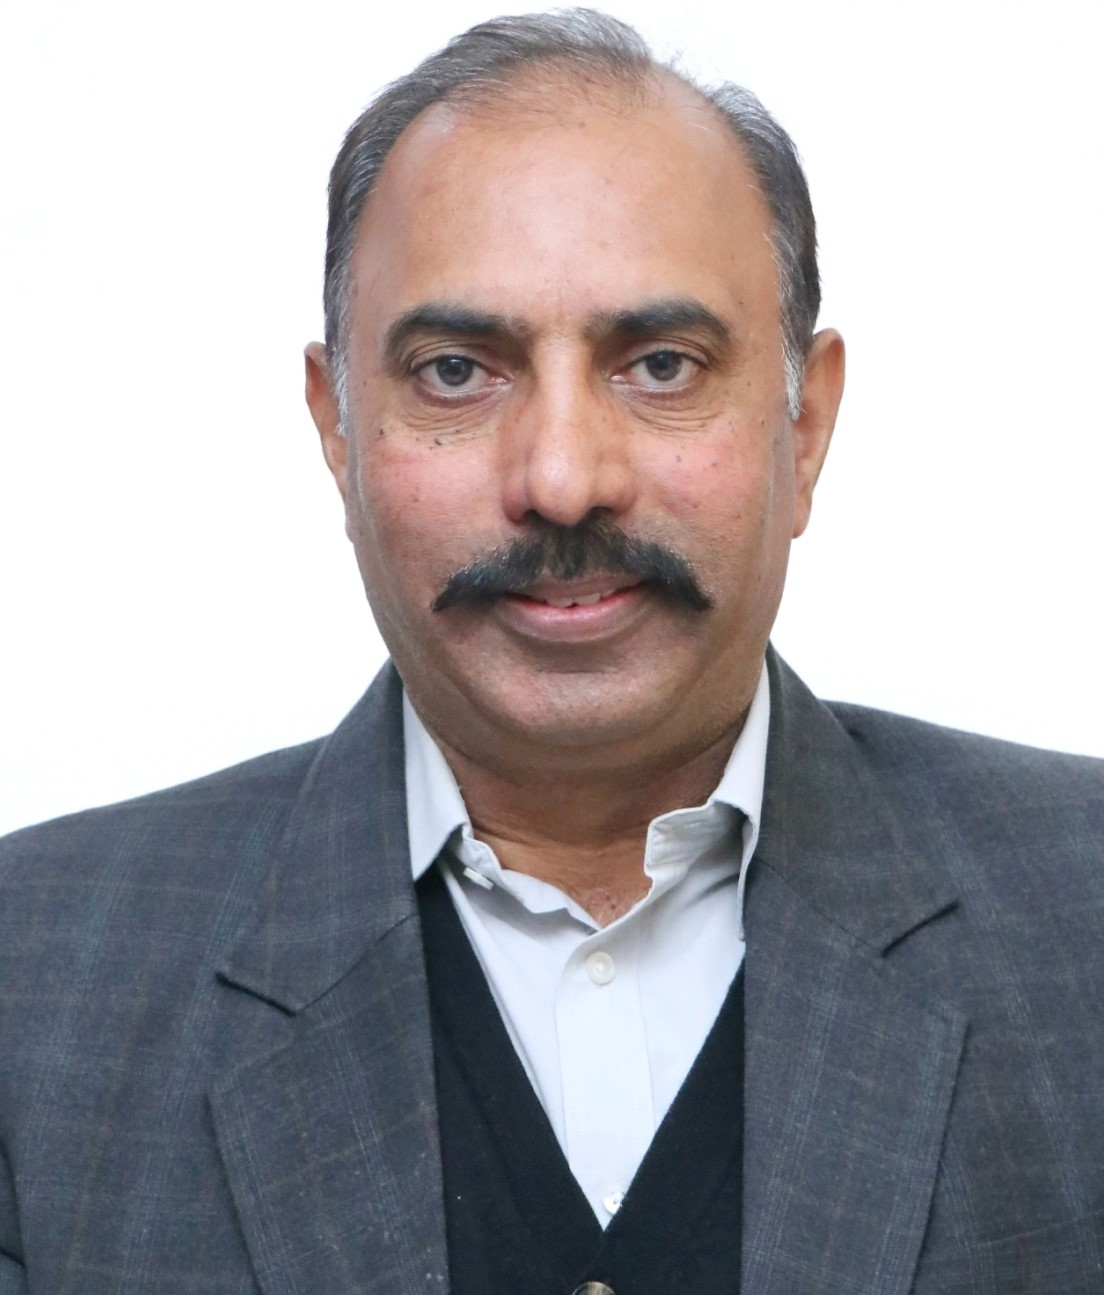
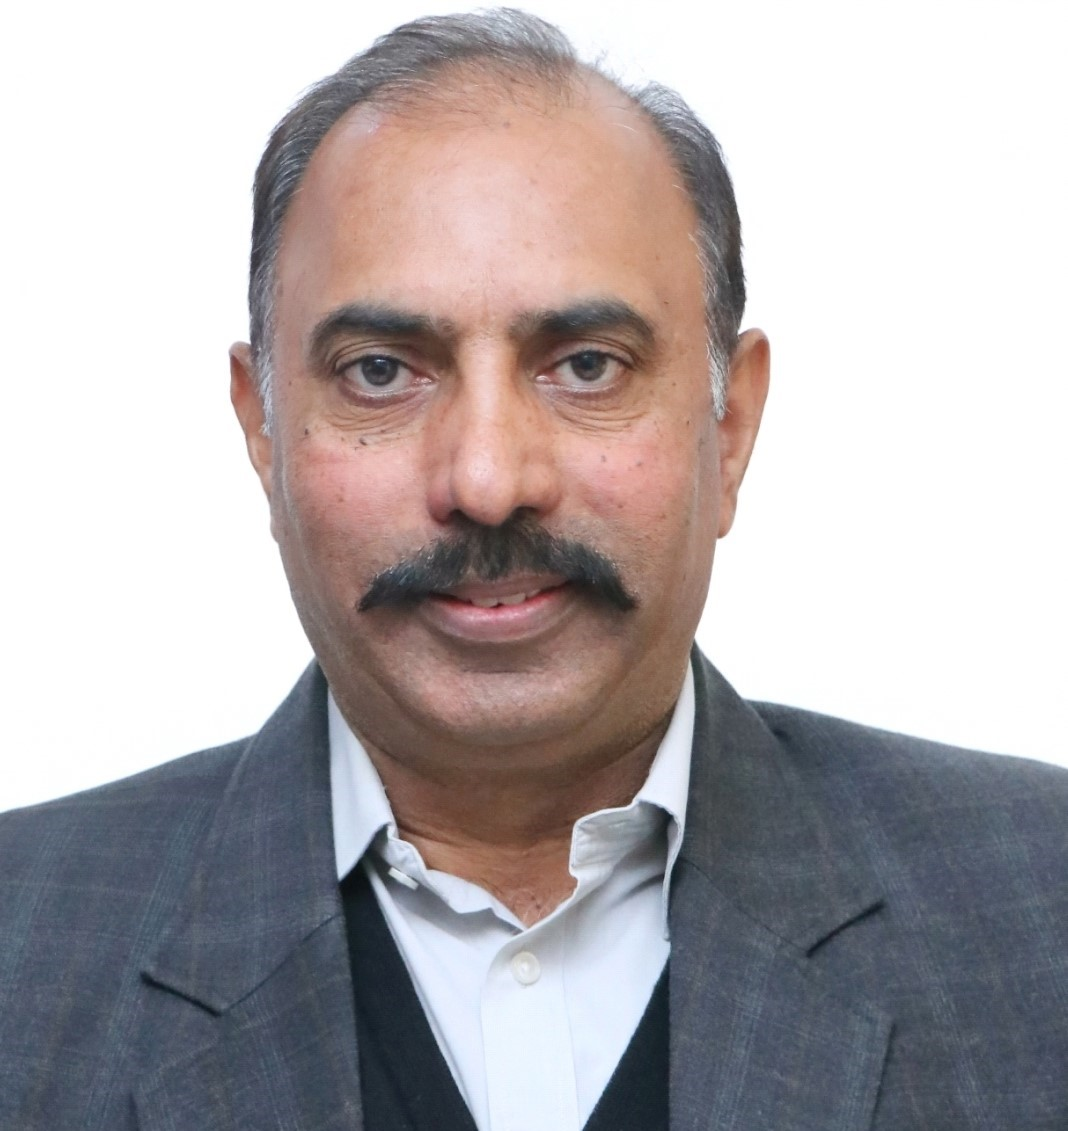
updates photo done

diff --git a/contacts.html b/contacts.html
@@ -219,7 +219,7 @@
                         <div class="warden-image">
                             <div class="image-placeholder">
                                 <!-- <i class="fas fa-user-tie fa-4x"></i> -->
-                               <img src="attached_assets/kamaljeet sir.jpg" alt="kamaljeet sir" class="autho-img">
+                               <img src="attached_assets/kamalsir.jpg" alt="kamaljeet sir" class="autho-img">
                             </div>
                         </div>
                         <div class="warden-info">
@@ -241,7 +241,7 @@
                         <div class="warden-image">
                             <div class="image-placeholder">
                                 <!-- <i class="fas fa-user-tie fa-4x"></i> -->
-                               <img src="attached_assets/swag sir.jpg" alt="dean sir" class="autho-img">
+                               <img src="attached_assets/swag sir.jpg" alt="dean sir" class="autho-img" >
                             </div>
                         </div>
                         <div class="warden-info">
